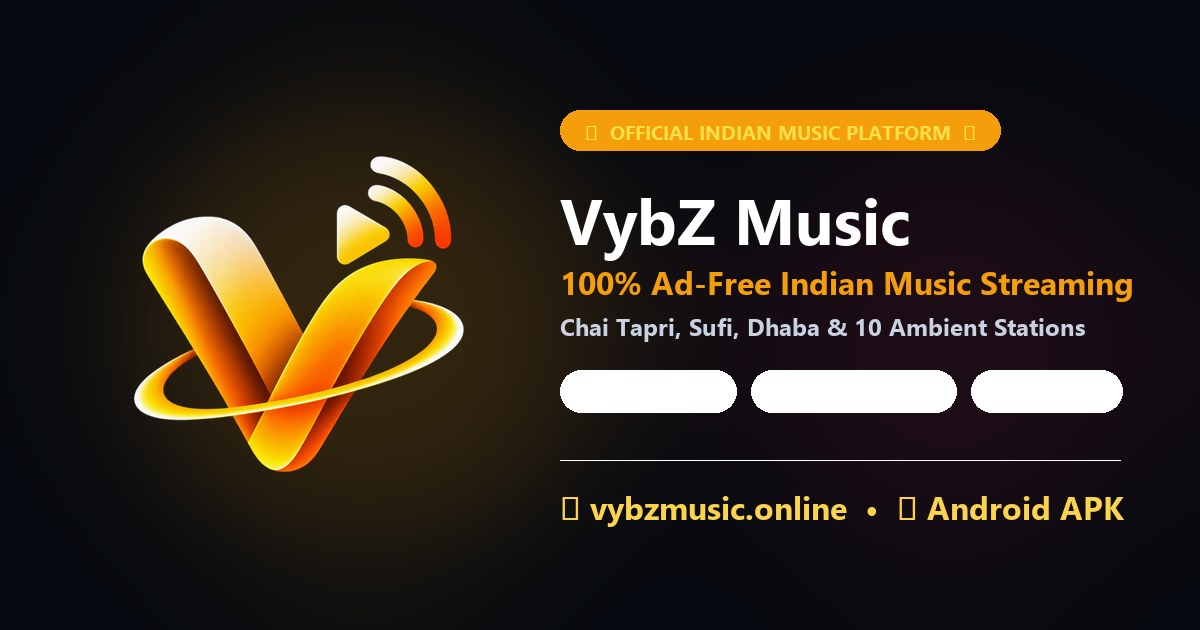
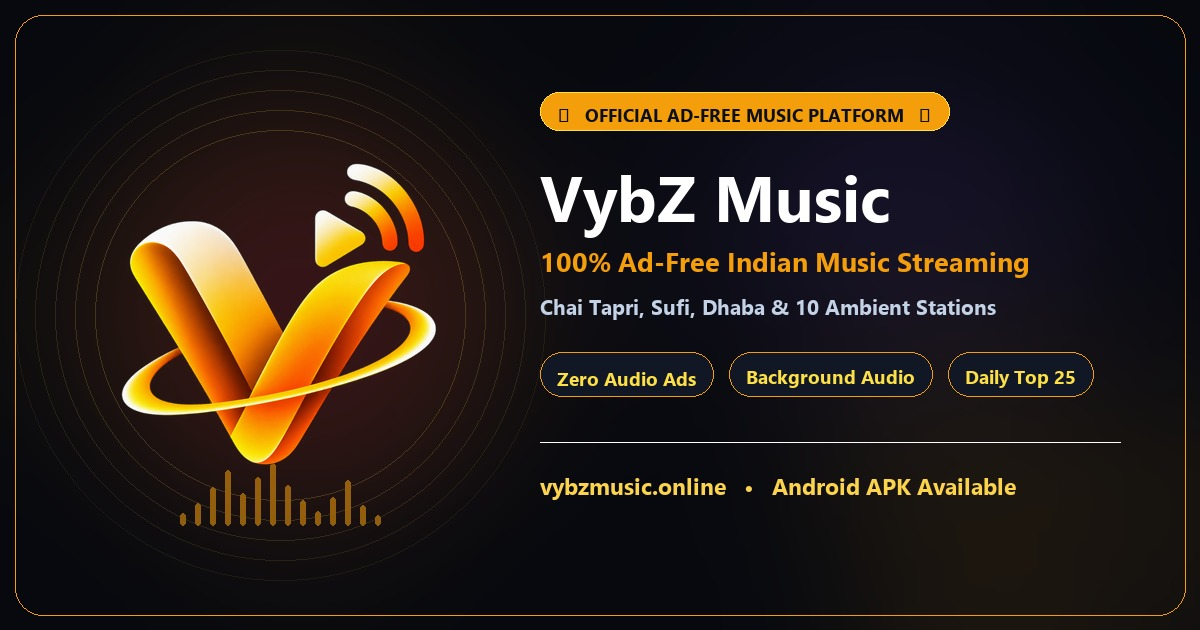
feat(og): update preview card to Aesthetic Vibe 1 with vinyl rings and equalizer bars

diff --git a/scratch/generate_og.py b/scratch/generate_og.py
@@ -1,0 +1,124 @@
+import os
+from PIL import Image, ImageDraw, ImageFont, ImageFilter
+
+def create_og_images():
+    logo_path = 'public/logo.png'
+    if not os.path.exists(logo_path):
+        print("logo.png not found")
+        return
+
+    orig_logo = Image.open(logo_path).convert('RGBA')
+    width, height = 1200, 630
+
+    font_paths = [
+        "C:/Windows/Fonts/segoeuib.ttf",
+        "C:/Windows/Fonts/arialbd.ttf",
+        "C:/Windows/Fonts/arial.ttf"
+    ]
+    font_title = None
+    for p in font_paths:
+        if os.path.exists(p):
+            try:
+                font_title = ImageFont.truetype(p, 64)
+                font_sub = ImageFont.truetype(p, 27)
+                font_tag = ImageFont.truetype(p, 21)
+                font_badge = ImageFont.truetype(p, 18)
+                font_pill = ImageFont.truetype(p, 19)
+                font_footer = ImageFont.truetype(p, 23)
+                break
+            except Exception:
+                continue
+
+    if not font_title:
+        font_title = ImageFont.load_default()
+        font_sub = ImageFont.load_default()
+        font_tag = ImageFont.load_default()
+        font_badge = ImageFont.load_default()
+        font_pill = ImageFont.load_default()
+        font_footer = ImageFont.load_default()
+
+    card = Image.new('RGBA', (width, height), (7, 9, 15, 255))
+
+    # 1. Multi-layered organic aurora background
+    aurora = Image.new('RGBA', (width, height), (0, 0, 0, 0))
+    a_draw = ImageDraw.Draw(aurora)
+    a_draw.ellipse([50, 60, 550, 560], fill=(245, 158, 11, 70))
+    a_draw.ellipse([150, 150, 450, 480], fill=(225, 29, 72, 50))
+    a_draw.ellipse([650, 30, 1150, 400], fill=(139, 92, 246, 30))
+    a_draw.ellipse([750, 350, 1250, 650], fill=(245, 158, 11, 25))
+    aurora = aurora.filter(ImageFilter.GaussianBlur(95))
+    card = Image.alpha_composite(card, aurora)
+
+    # 2. Vinyl & Sound Wave Grooves behind Logo (Aesthetic Halo)
+    vinyl_layer = Image.new('RGBA', (width, height), (0, 0, 0, 0))
+    v_draw = ImageDraw.Draw(vinyl_layer)
+    cx, cy = 280, 315
+    radii = [185, 205, 225, 245, 265]
+    for i, r in enumerate(radii):
+        alpha = int(45 - i * 7)
+        v_draw.ellipse([cx - r, cy - r, cx + r, cy + r], outline=(253, 224, 71, alpha), width=1)
+    
+    # Soundwave bars
+    bar_x = 180
+    bar_y_base = 525
+    bar_heights = [12, 22, 38, 55, 32, 48, 62, 40, 25, 14, 28, 45, 20, 10]
+    for bh in bar_heights:
+        v_draw.rounded_rectangle([bar_x, bar_y_base - bh, bar_x + 5, bar_y_base], radius=2, fill=(245, 158, 11, 140))
+        bar_x += 15
+
+    card = Image.alpha_composite(card, vinyl_layer)
+
+    # 3. Paste Logo
+    logo_size = 400
+    scaled_logo = orig_logo.resize((logo_size, logo_size), Image.Resampling.LANCZOS)
+    card.paste(scaled_logo, (int(cx - logo_size / 2), int(cy - logo_size / 2)), scaled_logo)
+
+    # 4. Right side typography
+    draw = ImageDraw.Draw(card)
+    rx = 540
+
+    # Top Badge
+    badge_text = "✦   OFFICIAL AD-FREE MUSIC PLATFORM   ✦"
+    b_box = draw.textbbox((0, 0), badge_text, font=font_badge)
+    bw = b_box[2] - b_box[0] + 36
+    bh = 38
+    by = 92
+    draw.rounded_rectangle([rx, by, rx + bw, by + bh], radius=19, fill=(245, 158, 11, 245), outline=(253, 224, 71, 255), width=1)
+    bx_text = rx + (bw - (b_box[2] - b_box[0])) / 2
+    by_text = by + (bh - (b_box[3] - b_box[1])) / 2 - 2
+    draw.text((bx_text, by_text), badge_text, font=font_badge, fill=(11, 15, 24))
+
+    # Main Title
+    draw.text((rx, 152), "VybZ Music", font=font_title, fill=(255, 255, 255))
+    draw.text((rx, 242), "100% Ad-Free Indian Music Streaming", font=font_sub, fill=(245, 158, 11))
+    draw.text((rx, 292), "Chai Tapri, Sufi, Dhaba & 10 Ambient Stations", font=font_tag, fill=(195, 210, 230))
+
+    # Feature Pills
+    features = ["Zero Audio Ads", "Background Audio", "Daily Top 25"]
+    fx = rx
+    fy = 352
+    pill_h = 44
+    for feat in features:
+        fbox = draw.textbbox((0, 0), feat, font=font_pill)
+        fw = fbox[2] - fbox[0] + 34
+        draw.rounded_rectangle([fx, fy, fx + fw, fy + pill_h], radius=22, fill=(17, 23, 36, 255), outline=(245, 158, 11, 140), width=1)
+        tx = fx + (fw - (fbox[2] - fbox[0])) / 2
+        ty = fy + (pill_h - (fbox[3] - fbox[1])) / 2 - 2
+        draw.text((tx, ty), feat, font=font_pill, fill=(253, 224, 71))
+        fx += fw + 16
+
+    # Aesthetic Divider
+    draw.line([rx, 442, rx + 580, 442], fill=(255, 255, 255, 35), width=1)
+    draw.text((rx, 470), "vybzmusic.online   •   Android APK Available", font=font_footer, fill=(252, 211, 77))
+
+    # Outer border
+    draw.rounded_rectangle([15, 15, width - 15, height - 15], radius=28, outline=(245, 158, 11, 50), width=1)
+
+    # Save
+    card_rgb = card.convert('RGB')
+    card_rgb.save('public/og-card.jpg', quality=92, optimize=True)
+    card_rgb.save('public/og-card.png', optimize=True)
+    print("Saved public/og-card.jpg and public/og-card.png")
+
+if __name__ == '__main__':
+    create_og_images()
